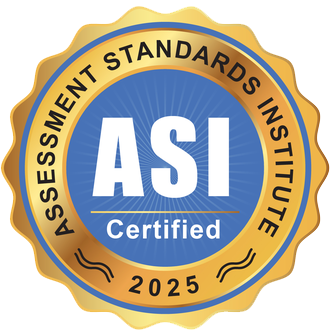
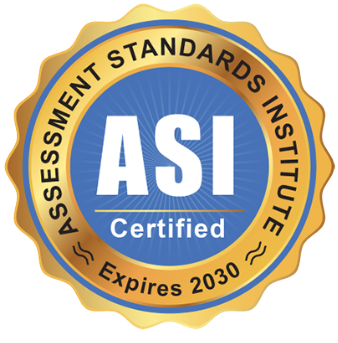
updates asi seal from 2025 to 2030 expire date site wide

diff --git a/components/ContactForm.vue b/components/ContactForm.vue
@@ -246,13 +246,13 @@ export default {
         }
     },
     async created() {
-        let foo = await axios.get('/api/contact/custom-fields');
+        let foo = await axios.get('http://localhost:3000/api/contact/custom-fields');
         console.log(foo.data);
 
-        let response = await axios.get('/api/contact/custom-field/21');
+        let response = await axios.get('http://localhost:3000/api/contact/custom-field/21');
         this.sources = response.data.fieldOptions;
 
-        response = await axios.get('/api/contact/custom-field/64');
+        response = await axios.get('http://localhost:3000/api/contact/custom-field/64');
         this.affiliations = response.data.fieldOptions;
 
         switch (this.getStartedId) {
